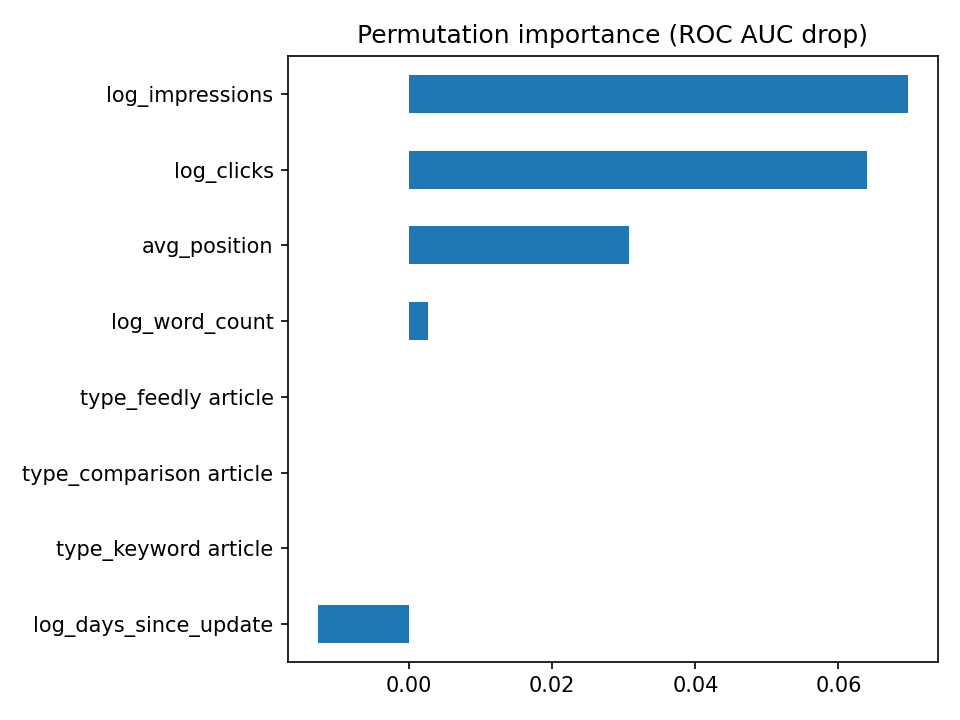
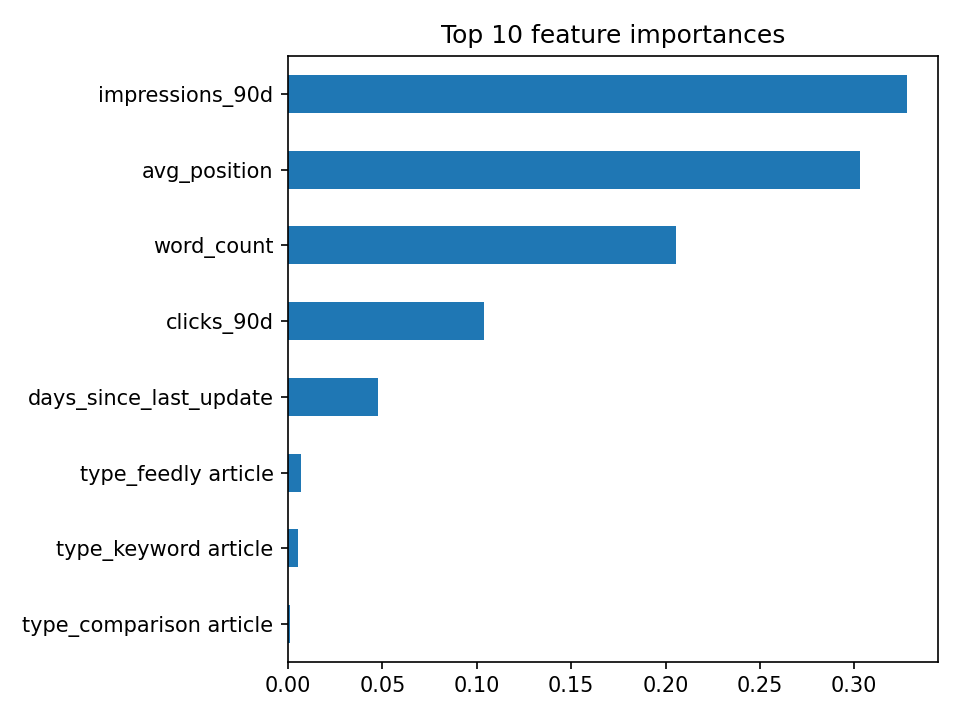
Added capstone_report

diff --git a/work/capstone_report.md b/work/capstone_report.md
@@ -1,0 +1,58 @@
+# Capstone Report: Ranking Pages for Review
+
+* Author: (type your name here)
+* Lane: Lane 2, Refresh / Content Opportunity Scoring
+* Repo: (paste your repo URL here)
+* Date: 2026-11-08
+
+## 1. Problem framing
+
+The decision: which pages should a content reviewer open first? The unit of analysis is one page. The output is a ranked list with a reason code and a suggested action per page. A reviewer works down the list and decides to refresh, review, or monitor each page. A false alarm wastes limited review time, and a missed page keeps losing traffic unnoticed. Data helps because a reviewer cannot check every page, and a ranking built from evidence puts the most likely problems first.
+
+## 2. Data safety
+
+I used the anonymized starter dataset (`data/raw/content_refresh_anonymized.csv`): 30,000 pages, one row per page, 90-day signals. I excluded FlyRank product scores and flags (`health_score`, `priority_score`, `action_type`), the label `trend_direction` and its companion `trend_pct`, every `last_30d` and `prev_30d` column, and the identifiers `content_id` and `client_id` (used only for grouping). I tested one deliberate leak: a column copied from the label raised ROC AUC to 1.0, and removing it gave 0.723, which is how I confirmed the final features are clean. No client names, domains, URLs, or queries appear anywhere in `work/`.
+
+## 3. Baseline
+
+A transparent rule written before any model: score = percentile rank of days since last update x percentile rank of impressions, with one reason code (`stale_visible_page`: 180+ days since update and 500+ impressions) and one action (refresh or monitor). On the same client-held-out split as the models, it scored ROC AUC 0.475, average precision 0.472, precision@50 0.34, and precision@100 0.32, against a test base rate of 0.511. Its grouped 5-fold ROC AUC was 0.585 (sd 0.089).
+
+## 4. Model / analysis
+
+Task: classification used for ranking, with pages ranked by predicted probability of decline. Methods: logistic regression, decision tree (depth 5), random forest, and gradient boosting. Features: log impressions, log clicks, average position, log word count, log days since update, and one-hot content type. Missing word counts are filled with 0. The target is the proxy `trend_direction == "down"`, a bucket computed from the current window, not a future outcome.
+
+## 5. Evaluation
+
+Split: client-grouped holdout with 25 clients (23,837 pages) in training and 7 clients (6,163 pages) in testing, and zero clients in both. I also ran a grouped 5-fold check. All methods use the same split and metrics.
+
+| Method | ROC AUC | Avg precision | P@50 | P@100 | Grouped 5-fold AUC |
+|---|---|---|---|---|---|
+| Baseline rule | 0.475 | 0.472 | 0.34 | 0.32 | 0.585 |
+| Logistic regression | 0.610 | 0.607 | 0.76 | 0.77 | 0.662 |
+| Decision tree | 0.585 | 0.562 | 0.62 | 0.58 | 0.628 |
+| Random forest | 0.592 | 0.577 | 0.68 | 0.63 | 0.653 |
+| Gradient boosting | 0.611 | 0.600 | 0.74 | 0.73 | 0.633 |
+
+Test base rate: 0.511. Flagging the top 20 percent of test pages by predicted risk caught 770 declining pages, produced 466 false alarms, and missed 2,379 declining pages. False alarms are high-visibility pages (median 1,156 impressions, median position 15.4). Missed pages have lower traffic (median 309 impressions).
+
+## 6. Interpretation
+
+Every model beats the baseline, but the gains are modest, and the simple logistic regression matches the complex models. The baseline falls below 0.5 on the test clients, so staleness and visibility alone carried no usable signal there. Permutation importance (gradient boosting): impressions 0.070, clicks 0.064, average position 0.031, word count 0.003, days since update -0.013. This shows which signals the model used, not that any signal causes decline. The staleness assumption behind the refresh flags came out MIXED in my signal audit (for example, 0.512 declining in the freshest bucket versus 0.467 for 181-365 days). A caveat: the label compares the last 30 days with the previous 30, and my 90-day features cover the same days, so some skill may come from overlapping measurements.
+
+## 7. Recommendation
+
+Ranked by gradient boosting on the held-out clients, the top 20 pages declined 80 percent of the time and the top 100 declined 73 percent, against a 51 percent base rate. Of the top 100, 66 carry `visible_decline_risk` (500+ impressions and in the top 20 percent of risk), which means review first, and 34 carry `model_decline_risk`, which means monitor. A FlyRank editor would open the review-first pages and check whether the drop is real, seasonal, or absorbed by a related page before editing. A recommendation is wrong if the page is stable, seasonal, or a sibling took its demand. Confidence is moderate and directional: the sample is 30,000 pages from 32 clients, the test set has only 7 clients, and the label is a proxy.
+
+## 8. Reproducibility
+
+```
+git clone <your-repo-url>
+cd <your-repo>
+pip install -r requirements.txt
+jupyter nbconvert --to notebook --execute work/notebooks/w04_baseline_score.ipynb
+jupyter nbconvert --to notebook --execute work/notebooks/w05_model.ipynb
+```
+
+Random seed 42 is used for the split, the models, and permutation importance. Environment: Python 3 with pandas, numpy, scikit-learn, and matplotlib from `requirements.txt`. The deployed paper is `index.html` at the repo root.
+
+Claims checklist: all claims are observed, measured, directional, or decision-support. There are no causal claims, no claims about Google's algorithm, and no client-identifying details. Metrics are reported next to the 0.511 base rate.
